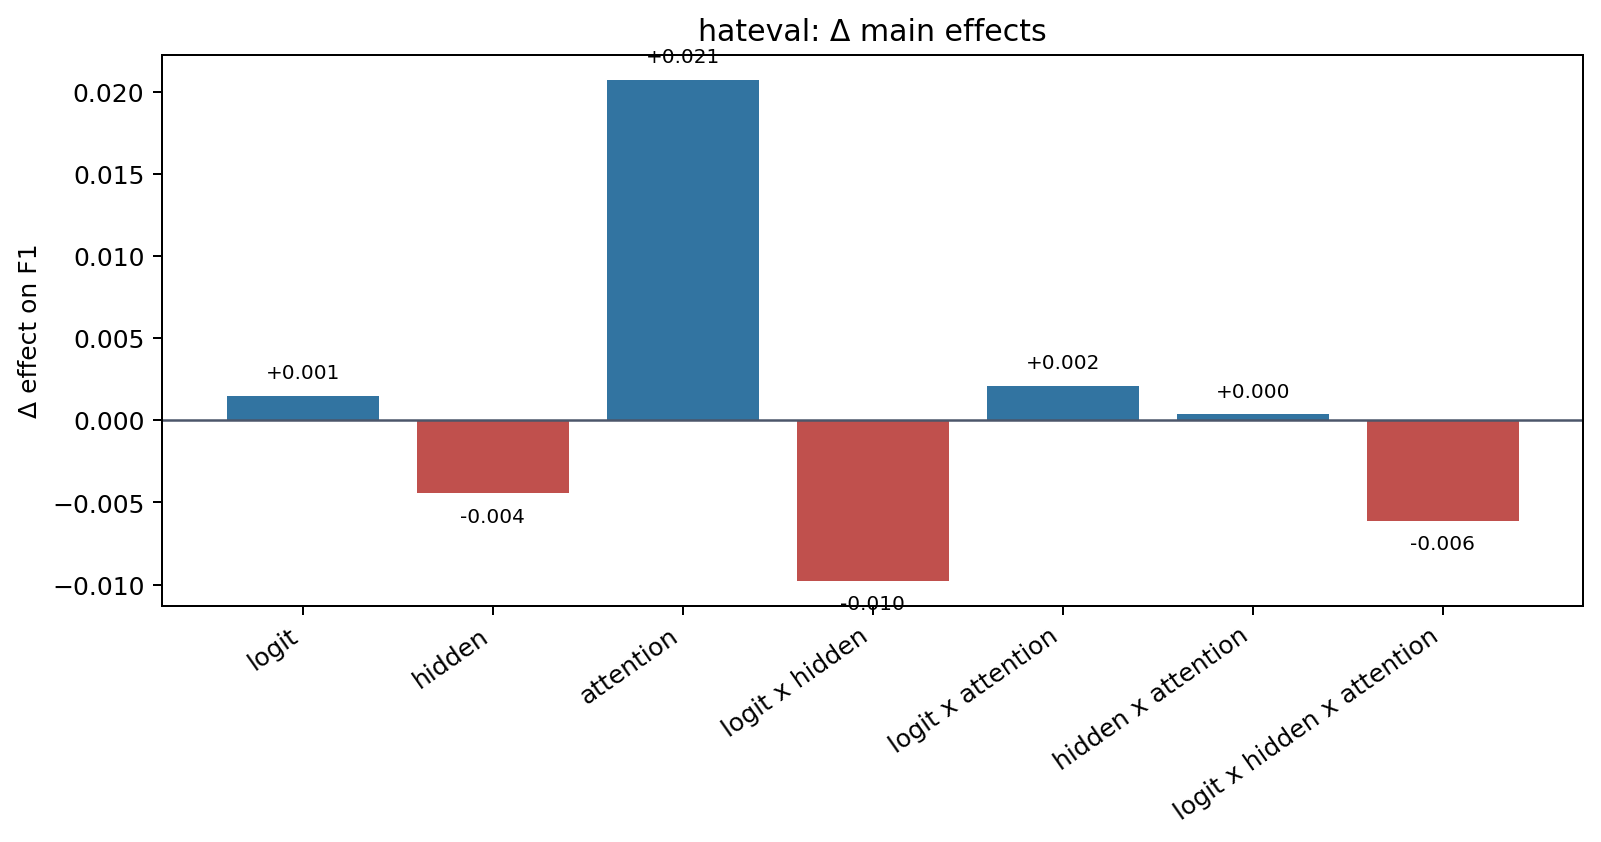
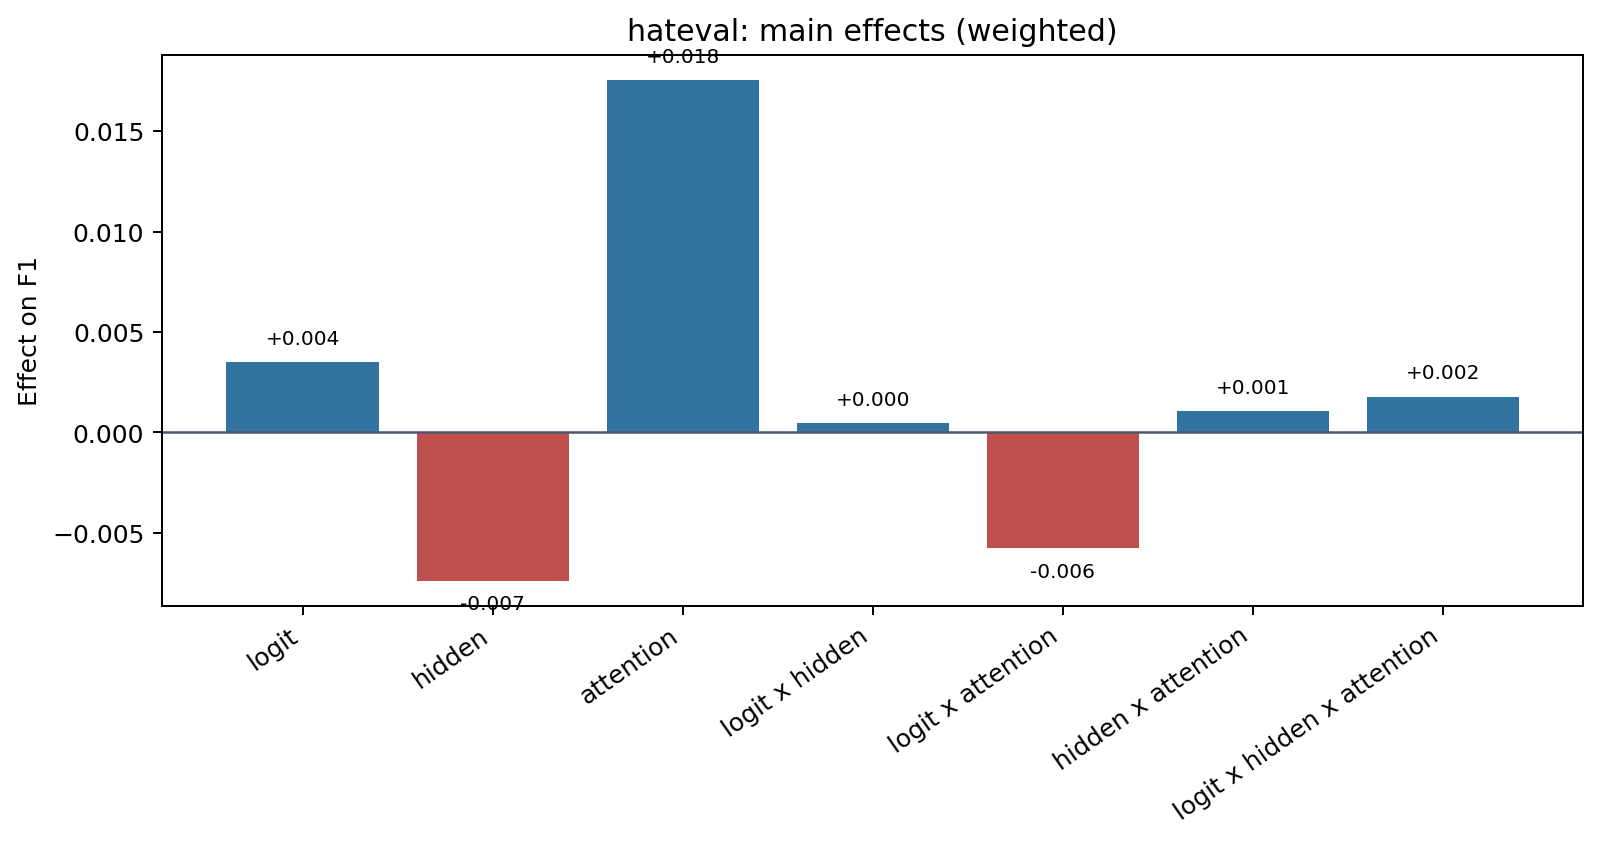
feat: plot weighted main effects instead of effect deltas
The per-dataset main-effect figure now shows the weighted sweep's
factorial effect estimates directly, rather than the weighted-minus-
weightless change, so each bar reads as an effect on F1 under the
tuned loss weights.

diff --git a/scripts/07_compare_weighting.py b/scripts/07_compare_weighting.py
@@ -152,32 +152,27 @@ def write_f1_condition_bars(comparison: pd.DataFrame, out_dir: pathlib.Path) -> 
 def write_main_effect_change_bars(
     weightless_full: pd.DataFrame, weighted_full: pd.DataFrame, out_dir: pathlib.Path
 ) -> dict[str, pathlib.Path]:
-    """Per dataset, signed bars of the change in each factorial effect (weighted - weightless)."""
+    """Per dataset, signed bars of the weighted sweep's factorial effect estimates."""
     figures = {}
     datasets = _ordered(weighted_full["dataset"].unique(), DATASET_ORDER)
     for dataset in datasets:
-        delta = _effect_change(weightless_full, weighted_full, dataset)
-        if delta is None:
+        effects = _weighted_effects(weighted_full, dataset)
+        if effects is None:
             continue
         path = out_dir / f"delta_effects_{dataset}.png"
         _save_signed_bars(
-            list(delta["effect"]), list(delta["estimate"]), f"{dataset}: Δ main effects", "Δ effect on F1", path
+            list(effects["effect"]), list(effects["estimate"]), f"{dataset}: main effects (weighted)", "Effect on F1", path
         )
         figures[dataset] = path
     return figures
 
 
-def _effect_change(weightless_full: pd.DataFrame, weighted_full: pd.DataFrame, dataset: str) -> pd.DataFrame | None:
-    """Weighted-minus-weightless factorial effect estimates for one dataset, or None if incomplete."""
-    weightless = _valid_dataset_runs(weightless_full, dataset)
+def _weighted_effects(weighted_full: pd.DataFrame, dataset: str) -> pd.DataFrame | None:
+    """Weighted-sweep factorial effect estimates for one dataset, or None if incomplete."""
     weighted = _valid_dataset_runs(weighted_full, dataset)
-    if weightless is None or weighted is None:
+    if weighted is None:
         return None
-    wl_effects = effects_table(weightless, "test_macro_f1")
-    w_effects = effects_table(weighted, "test_macro_f1")
-    merged = wl_effects.merge(w_effects, on=["effect", "kind"], suffixes=("_wl", "_w"))
-    merged["estimate"] = merged["estimate_w"] - merged["estimate_wl"]
-    return merged[["effect", "estimate"]]
+    return effects_table(weighted, "test_macro_f1")[["effect", "estimate"]]
 
 
 def _valid_dataset_runs(full: pd.DataFrame, dataset: str) -> pd.DataFrame | None:
@@ -354,7 +349,7 @@ def _dataset_section(
         lines.append(_dataset_row(condition, indexed.loc[condition]))
     lines.append("")
     lines += _dataset_figure(f1_bar, "F1 by condition: weightless vs weighted")
-    lines += _dataset_figure(effect_bar, "Δ main effects")
+    lines += _dataset_figure(effect_bar, "main effects (weighted)")
     return lines
 
 

diff --git a/comparison/COMPARISON.md b/comparison/COMPARISON.md
@@ -61,7 +61,7 @@ ECE warm is **worse** (more miscalibrated).
 
 ![F1 by condition: weightless vs weighted](figures/delta_f1_conditions_davidson.png)
 
-![Δ main effects](figures/delta_effects_davidson.png)
+![main effects (weighted)](figures/delta_effects_davidson.png)
 
 ## `dynahate`
 
@@ -78,7 +78,7 @@ ECE warm is **worse** (more miscalibrated).
 
 ![F1 by condition: weightless vs weighted](figures/delta_f1_conditions_dynahate.png)
 
-![Δ main effects](figures/delta_effects_dynahate.png)
+![main effects (weighted)](figures/delta_effects_dynahate.png)
 
 ## `hateval`
 
@@ -95,7 +95,7 @@ ECE warm is **worse** (more miscalibrated).
 
 ![F1 by condition: weightless vs weighted](figures/delta_f1_conditions_hateval.png)
 
-![Δ main effects](figures/delta_effects_hateval.png)
+![main effects (weighted)](figures/delta_effects_hateval.png)
 
 ## `anli`
 
@@ -112,7 +112,7 @@ ECE warm is **worse** (more miscalibrated).
 
 ![F1 by condition: weightless vs weighted](figures/delta_f1_conditions_anli.png)
 
-![Δ main effects](figures/delta_effects_anli.png)
+![main effects (weighted)](figures/delta_effects_anli.png)
 
 ## `fever`
 
@@ -129,7 +129,7 @@ ECE warm is **worse** (more miscalibrated).
 
 ![F1 by condition: weightless vs weighted](figures/delta_f1_conditions_fever.png)
 
-![Δ main effects](figures/delta_effects_fever.png)
+![main effects (weighted)](figures/delta_effects_fever.png)
 
 ## `imdb`
 
@@ -146,7 +146,7 @@ ECE warm is **worse** (more miscalibrated).
 
 ![F1 by condition: weightless vs weighted](figures/delta_f1_conditions_imdb.png)
 
-![Δ main effects](figures/delta_effects_imdb.png)
+![main effects (weighted)](figures/delta_effects_imdb.png)
 
 ## `tweet_eval-sentiment`
 
@@ -163,7 +163,7 @@ ECE warm is **worse** (more miscalibrated).
 
 ![F1 by condition: weightless vs weighted](figures/delta_f1_conditions_tweet_eval-sentiment.png)
 
-![Δ main effects](figures/delta_effects_tweet_eval-sentiment.png)
+![main effects (weighted)](figures/delta_effects_tweet_eval-sentiment.png)
 
 ## `vardial`
 
@@ -180,4 +180,4 @@ ECE warm is **worse** (more miscalibrated).
 
 ![F1 by condition: weightless vs weighted](figures/delta_f1_conditions_vardial.png)
 
-![Δ main effects](figures/delta_effects_vardial.png)
+![main effects (weighted)](figures/delta_effects_vardial.png)
